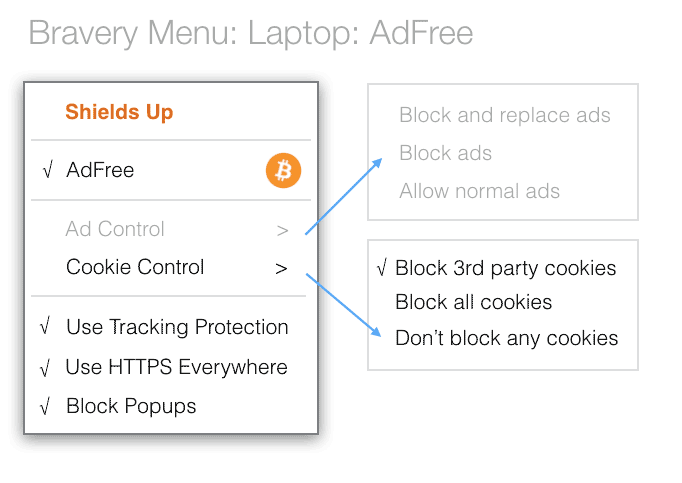
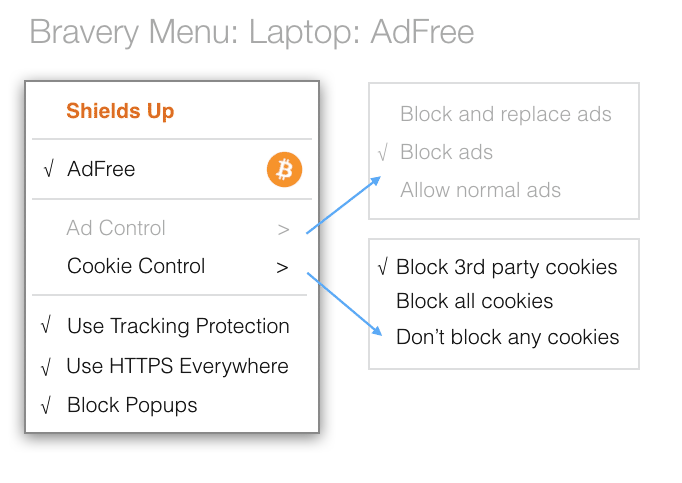
updated BP3 and another image

diff --git a/public/blogpost_3.html b/public/blogpost_3.html
@@ -127,12 +127,13 @@ The data-spy and data-target are part of the built-in Bootstrap scrollspy functi
 
     <!--=== Content Part ===-->
     <!-- Begin Content -->
-    <div class="page container content-md">
+   <div class="container content-md">
         <div class="row">
             <div class="col-sm-5 sm-margin-bottom-20">
                 <BR><img class="img-responsive" src="assets/img/team/brendan_couch.jpg" alt="">
             <HR>
-              <div class="col-sm-7 news">
+
+             <div class="col-sm-7 news">
                     <ul class="list-inline posted-info">
                         <a href="blogpost_3.html"><li><strong>March 31, 2016</strong></li>
                         <li>Brave's Payment Spec Out for Developer Input</li>
@@ -173,30 +174,42 @@ The data-spy and data-target are part of the built-in Bootstrap scrollspy functi
 
 <p>Today we are discussing the <strong><em>Brave Ledger</em></strong>, a Bitcoin-based micropayments system for users and publishers. As part of our open source approach, we are sharing the <a href="https://github.com/brave/ledger/tree/master/documentation/Ledger-Principles.md">specification</a> with developers for comment and discussion. The code is currently being written, and we expect to revise the code based on feedback. At present, we are planning on having everything running (and released as open source) in our 1.0 Development release later in May.</p>
 
-<p>Let's start with the basics. By default, the Brave Browser operates in either <em>ad-free</em> or <em>ad-replacement</em> mode. (As discussed in <a href="https://brave.com/blogpost_2.html">an earlier post</a>, Brave users may also elect only to block ads and trackers if they wish; or to disable all blocking when testing; but default settings matter at scale, because most users don’t change them.) If, with default settings, the browsing experience is currently ad-free, then third-party advertisements are not displayed by the Brave Browser; otherwise, in ad-replacement mode, the Brave Browser replaces candidate third-party advertisements with faster, safer ads that load <em.after</em> the main publisher content instead of <em>before</em> it. And we place fewer ads than we block in this mode.</p>
+<p>Let's start with the basics. The Brave Browser operates in either <em>ad-replacement</em> or <em>ad-free</em>mode. <BR>
+    
+    <p><img class="img-responsive" src="assets/img/contents/Brave_laptopmenu_adreplace.png" alt="" width="460px"></p>
+    
+    <p><img class="img-responsive" src="assets/img/contents/Brave_laptopmenu_adfree.png" alt="" width="460px"></p>
+    
+    (As discussed in <a href="https://brave.com/blogpost_2.html">an earlier post</a>, Brave users may also elect only to block ads and trackers if they wish; or to disable all blocking when testing; but default settings matter at scale, because most users don’t change them.) If the browsing experience is ad-free, then third-party advertisements are not displayed by the Brave Browser; otherwise, in ad-replacement mode, the Brave Browser replaces candidate third-party advertisements with faster, safer ads that load <em.after</em> the main publisher content instead of <em>before</em> it. And we place fewer ads than we block in this mode.</p>
 
 <p>Each mode has a different economic model and some bells and whistles:
 <ul>
-<li>For ad-free mode, you pay a monthly fee in Bitcoin (BTC). Once the BTC transfer occurs, the Brave Browser transmits an anonymous-but-accountable summary of your top 10 sites by weighted average (e.g., if you went to "wsj.com" twice as much as "espn.com", then the weight for the first site is twice as much as the second site). Each day, the Brave Ledger tallies up the payments and sites viewed and "crunches the numbers". The payments sum (less a nominal processing fee, say 5%) is then divided by the sum of weights in order to determine the payment ratio, and then the payment to each publisher is calculated by multiplying the ratio by the weight. By way of example, if the total revenue from ad-free users was 1000.00BTC, then Brave Software would receive 50.00BTC, a site receiving 10% of the total views would receive 95.00BTC, a site receiving 5% of the total views would receive 47.50BTC, a site receiving 1% of the total views would receive 9.50BTC, and so on.</li>
+<li>For ad-free mode, you pay a monthly fee in Bitcoin (BTC). Once the BTC transfer occurs, the Brave Browser transmits an anonymous-but-accountable summary of your top 10 sites by weighted average (e.g., if you went to "wsj.com" twice as much as "espn.com", then the weight for the first site is twice as much as the second site). Each day, the Brave Ledger tallies up the payments and sites viewed and "crunches the numbers". The payments sum (less a nominal processing fee, say 5%) is then divided by the sum of weights in order to determine the payment ratio, and then the payment to each publisher is calculated by multiplying the ratio by the weight. By way of example, if the total revenue from ad-free users was 1000.00BTC, then Brave Software would receive 50.00BTC, a site receiving 10% of the total views would receive 95.00BTC, a site receiving 5% of the total views would receive 47.50BTC, a site receiving 1% of the total views would receive 9.50BTC, and so on.</li><BR>
 
-<li>The Brave Browser will have a preferences panel that lets you decide which sites should be supported. You can even fiddle with the weights if you wish. For example, you might prefer to pay your top 20 sites equally, or you might prefer to exclude a particular site or two, and so on. (We’re still thinking about the most intuitive ways to let you control this, so the design details aren’t yet decided.)</li>
+<li>The Brave Browser will have a preferences panel that lets you decide which sites should be supported. You can even fiddle with the weights if you wish. For example, you might prefer to pay your top 10 sites equally, or you might prefer to exclude a particular site or two, and so on. (We’re still thinking about the most intuitive ways to let you control this, so the design details aren’t yet decided.)</li>
+    
+                    <p><a href="assets/img/contents/Brave_topsites_ledger.png" target="_blank"> <img class="img-responsive" src="assets/img/contents/Brave_topsites_ledger.png" alt=""></a></p>
 
-<li>For ad-replacement mode, once an ad campaign is reconciled and our advertising partners pay us, the total views from the ad-replacement users are aggregated into a weighted list for publishers. From the total payment, our ad-matching partner takes a share (15%), we take our share (15%), we reserve the user revenue share of the total payment (15%) for ad-replacement users, and the remaining amount is allocated to the publishers (e.g., 55%). The payment to each publisher is then calculated using the weighted-ratio method. In order to enhance privacy, the payment to each ad-replacement user is calculated independently of the actual ad impressions served to that user – Brave Software does not keep track of which users were served which impressions.</li>
+<li>For ad-replacement mode, once an ad campaign is reconciled and our advertising partners pay us, the total views from the ad-replacement users are aggregated into a weighted list for publishers. From the total payment, our ad-matching partner takes a share (15%), we take our share (15%), we reserve the user revenue share of the total payment (15%) for ad-replacement users, and the remaining amount is allocated to the publishers (e.g., 55%). The payment to each publisher is then calculated using the weighted-ratio method. In order to enhance privacy, the payment to each ad-replacement user is calculated independently of the actual ad impressions served to that user – Brave Software does not keep track of which users were served which impressions.</li><BR>
 
-<li>So, what happens when you're in ad-replacement mode? The Brave Ledger makes a transfer of the user revenue share to your Brave wallet! You have two choices: you can "donate" the funds to your favorite sites (this is the automated default); or you can transfer the funds to another Bitcoin wallet and spend them yourself. However, in order to take money out of the system, <a href="https://en.wikipedia.org/wiki/Money_laundering#Enforcement">Anti-money laundering</a> (AML) and <a href="https://en.wikipedia.org/wiki/Know_your_customer">Know your customer</a> (KYC) regulations require that Brave Software verifies your identity. If you choose to verify your identity, then you'll need to demonstrate control of a phone number and an email address. Even so, there will be no way for Brave Software to correlate your browsing history with payments to your wallet.</li>
+<li>So, what happens when you're in ad-replacement mode? The Brave Ledger makes a transfer of the user revenue share to your Brave wallet! You have two choices: you can "donate" the funds to your favorite sites (this is the automated default); or you can transfer the funds to another Bitcoin wallet and spend them yourself. However, in order to take money out of the system, <a href="https://en.wikipedia.org/wiki/Money_laundering#Enforcement">Anti-money laundering</a> (AML) and <a href="https://en.wikipedia.org/wiki/Know_your_customer">Know your customer</a> (KYC) regulations require that Brave Software verifies your identity. If you choose to verify your identity, then you'll need to demonstrate control of a phone number and an email address. Even so, there will be no way for Brave Software to correlate your browsing history with payments to your wallet.</li><BR>
 
 <li>Publishers (the sites you visit) will also have to verify their wallets to get paid, and the difficulty of validation will – owing to AML and KYC regulations – be more stringent, but proportional to the size of the publisher. One of the nice features of the ad-free model is that accounting is entirely transparent – everyone (users and publishers) can examine the BTC blockchain and see the transfers going to and from the Brave Software escrow accounts. (There are many wonderful advantages to using Bitcoin for the Brave Ledger, but that’s for a future blog post… we promise!) Note also that because most users don’t change defaults, most users will default-pay their top sites, and so the aggregate share to publishers through the system is 70% of ad revenue.</li>
 </ul>
 </p>
 
 <p>Although we talk about being in either ad-free or ad-replacement mode, that's a bit of a simplification: the preferences panel will also let you designate certain sites as being ad-free and everything else as ad-replacement. Indeed as noted above and in that <a href="https://brave.com/blogpost_2.html">previous post</a>, you can be “ad-free for free” – while we think that content should be paid for, we also realize that not everyone shares this view (although we do think that our view is the majority opinion).</p>
+                
+<p><a href="assets/img/contents/Brave_privacy_settingspanel.png" target="_blank"> <img class="img-responsive" src="assets/img/contents/Brave_privacy_settingspanel.png" alt="" width="460px"></a></p>
 
 <p>At this point, you're probably wondering how the anonymous-but-accountable part actually works. You'll have to read the <a href="https://github.com/brave/ledger/tree/master/documentation/Ledger-Principles.md">specification</a> for all the details! But here's the thumbnail: the Brave Ledger uses <a href="https://anonize.org/assets/technology.html">Anonize</a>, which enables the Brave Browser and Ledger to agree on authentic user behavior without linking that behavior to users, browsers, or wallets, through the "magic" of <a href="https://en.wikipedia.org/wiki/Zero-knowledge_proof">Zero Knowledge Proofs</a>!</p>
+
 
                 </div>
             </div>
         </div>
     </div>
+
     <!-- End About Section -->
 
 

diff --git a/public/templates/blogpost_3.html b/public/templates/blogpost_3.html
@@ -6,12 +6,13 @@
 
     <!--=== Content Part ===-->
     <!-- Begin Content -->
-    <div class="page container content-md">
+   <div class="container content-md">
         <div class="row">
             <div class="col-sm-5 sm-margin-bottom-20">
                 <BR><img class="img-responsive" src="assets/img/team/brendan_couch.jpg" alt="">
             <HR>
-              <div class="col-sm-7 news">
+
+             <div class="col-sm-7 news">
                     <ul class="list-inline posted-info">
                         <a href="blogpost_3.html"><li><strong>March 31, 2016</strong></li>
                         <li>Brave's Payment Spec Out for Developer Input</li>
@@ -52,25 +53,36 @@
 
 <p>Today we are discussing the <strong><em>Brave Ledger</em></strong>, a Bitcoin-based micropayments system for users and publishers. As part of our open source approach, we are sharing the <a href="https://github.com/brave/ledger/tree/master/documentation/Ledger-Principles.md">specification</a> with developers for comment and discussion. The code is currently being written, and we expect to revise the code based on feedback. At present, we are planning on having everything running (and released as open source) in our 1.0 Development release later in May.</p>
 
-<p>Let's start with the basics. By default, the Brave Browser operates in either <em>ad-free</em> or <em>ad-replacement</em> mode. (As discussed in <a href="https://brave.com/blogpost_2.html">an earlier post</a>, Brave users may also elect only to block ads and trackers if they wish; or to disable all blocking when testing; but default settings matter at scale, because most users don’t change them.) If, with default settings, the browsing experience is currently ad-free, then third-party advertisements are not displayed by the Brave Browser; otherwise, in ad-replacement mode, the Brave Browser replaces candidate third-party advertisements with faster, safer ads that load <em>after</em> the main publisher content instead of <em>before</em> it. And we place fewer ads than we block in this mode.</p>
+<p>Let's start with the basics. The Brave Browser operates in either <em>ad-replacement</em> or <em>ad-free</em>mode. <BR>
+    
+    <p><img class="img-responsive" src="assets/img/contents/Brave_laptopmenu_adreplace.png" alt="" width="460px"></p>
+    
+    <p><img class="img-responsive" src="assets/img/contents/Brave_laptopmenu_adfree.png" alt="" width="460px"></p>
+    
+    (As discussed in <a href="https://brave.com/blogpost_2.html">an earlier post</a>, Brave users may also elect only to block ads and trackers if they wish; or to disable all blocking when testing; but default settings matter at scale, because most users don’t change them.) If the browsing experience is ad-free, then third-party advertisements are not displayed by the Brave Browser; otherwise, in ad-replacement mode, the Brave Browser replaces candidate third-party advertisements with faster, safer ads that load <em.after</em> the main publisher content instead of <em>before</em> it. And we place fewer ads than we block in this mode.</p>
 
 <p>Each mode has a different economic model and some bells and whistles:
 <ul>
-<li>For ad-free mode, you pay a monthly fee in Bitcoin (BTC). Once the BTC transfer occurs, the Brave Browser transmits an anonymous-but-accountable summary of your top 10 sites by weighted average (e.g., if you went to "wsj.com" twice as much as "espn.com", then the weight for the first site is twice as much as the second site). Each day, the Brave Ledger tallies up the payments and sites viewed and "crunches the numbers". The payments sum (less a nominal processing fee, say 5%) is then divided by the sum of weights in order to determine the payment ratio, and then the payment to each publisher is calculated by multiplying the ratio by the weight. By way of example, if the total revenue from ad-free users was 1000.00BTC, then Brave Software would receive 50.00BTC, a site receiving 10% of the total views would receive 95.00BTC, a site receiving 5% of the total views would receive 47.50BTC, a site receiving 1% of the total views would receive 9.50BTC, and so on.</li>
+<li>For ad-free mode, you pay a monthly fee in Bitcoin (BTC). Once the BTC transfer occurs, the Brave Browser transmits an anonymous-but-accountable summary of your top 10 sites by weighted average (e.g., if you went to "wsj.com" twice as much as "espn.com", then the weight for the first site is twice as much as the second site). Each day, the Brave Ledger tallies up the payments and sites viewed and "crunches the numbers". The payments sum (less a nominal processing fee, say 5%) is then divided by the sum of weights in order to determine the payment ratio, and then the payment to each publisher is calculated by multiplying the ratio by the weight. By way of example, if the total revenue from ad-free users was 1000.00BTC, then Brave Software would receive 50.00BTC, a site receiving 10% of the total views would receive 95.00BTC, a site receiving 5% of the total views would receive 47.50BTC, a site receiving 1% of the total views would receive 9.50BTC, and so on.</li><BR>
 
-<li>The Brave Browser will have a preferences panel that lets you decide which sites should be supported. You can even fiddle with the weights if you wish. For example, you might prefer to pay your top 20 sites equally, or you might prefer to exclude a particular site or two, and so on. (We’re still thinking about the most intuitive ways to let you control this, so the design details aren’t yet decided.)</li>
+<li>The Brave Browser will have a preferences panel that lets you decide which sites should be supported. You can even fiddle with the weights if you wish. For example, you might prefer to pay your top 10 sites equally, or you might prefer to exclude a particular site or two, and so on. (We’re still thinking about the most intuitive ways to let you control this, so the design details aren’t yet decided.)</li>
+    
+                    <p><a href="assets/img/contents/Brave_topsites_ledger.png" target="_blank"> <img class="img-responsive" src="assets/img/contents/Brave_topsites_ledger.png" alt=""></a></p>
 
-<li>For ad-replacement mode, once an ad campaign is reconciled and our advertising partners pay us, the total views from the ad-replacement users are aggregated into a weighted list for publishers. From the total payment, our ad-matching partner takes a share (15%), we take our share (15%), we reserve the user revenue share of the total payment (15%) for ad-replacement users, and the remaining amount is allocated to the publishers (e.g., 55%). The payment to each publisher is then calculated using the weighted-ratio method. In order to enhance privacy, the payment to each ad-replacement user is calculated independently of the actual ad impressions served to that user – Brave Software does not keep track of which users were served which impressions.</li>
+<li>For ad-replacement mode, once an ad campaign is reconciled and our advertising partners pay us, the total views from the ad-replacement users are aggregated into a weighted list for publishers. From the total payment, our ad-matching partner takes a share (15%), we take our share (15%), we reserve the user revenue share of the total payment (15%) for ad-replacement users, and the remaining amount is allocated to the publishers (e.g., 55%). The payment to each publisher is then calculated using the weighted-ratio method. In order to enhance privacy, the payment to each ad-replacement user is calculated independently of the actual ad impressions served to that user – Brave Software does not keep track of which users were served which impressions.</li><BR>
 
-<li>So, what happens when you're in ad-replacement mode? The Brave Ledger makes a transfer of the user revenue share to your Brave wallet! You have two choices: you can "donate" the funds to your favorite sites (this is the automated default); or you can transfer the funds to another Bitcoin wallet and spend them yourself. However, in order to take money out of the system, <a href="https://en.wikipedia.org/wiki/Money_laundering#Enforcement">Anti-money laundering</a> (AML) and <a href="https://en.wikipedia.org/wiki/Know_your_customer">Know your customer</a> (KYC) regulations require that Brave Software verifies your identity. If you choose to verify your identity, then you'll need to demonstrate control of a phone number and an email address. Even so, there will be no way for Brave Software to correlate your browsing history with payments to your wallet.</li>
+<li>So, what happens when you're in ad-replacement mode? The Brave Ledger makes a transfer of the user revenue share to your Brave wallet! You have two choices: you can "donate" the funds to your favorite sites (this is the automated default); or you can transfer the funds to another Bitcoin wallet and spend them yourself. However, in order to take money out of the system, <a href="https://en.wikipedia.org/wiki/Money_laundering#Enforcement">Anti-money laundering</a> (AML) and <a href="https://en.wikipedia.org/wiki/Know_your_customer">Know your customer</a> (KYC) regulations require that Brave Software verifies your identity. If you choose to verify your identity, then you'll need to demonstrate control of a phone number and an email address. Even so, there will be no way for Brave Software to correlate your browsing history with payments to your wallet.</li><BR>
 
 <li>Publishers (the sites you visit) will also have to verify their wallets to get paid, and the difficulty of validation will – owing to AML and KYC regulations – be more stringent, but proportional to the size of the publisher. One of the nice features of the ad-free model is that accounting is entirely transparent – everyone (users and publishers) can examine the BTC blockchain and see the transfers going to and from the Brave Software escrow accounts. (There are many wonderful advantages to using Bitcoin for the Brave Ledger, but that’s for a future blog post… we promise!) Note also that because most users don’t change defaults, most users will default-pay their top sites, and so the aggregate share to publishers through the system is 70% of ad revenue.</li>
 </ul>
 </p>
 
 <p>Although we talk about being in either ad-free or ad-replacement mode, that's a bit of a simplification: the preferences panel will also let you designate certain sites as being ad-free and everything else as ad-replacement. Indeed as noted above and in that <a href="https://brave.com/blogpost_2.html">previous post</a>, you can be “ad-free for free” – while we think that content should be paid for, we also realize that not everyone shares this view (although we do think that our view is the majority opinion).</p>
+                
+<p><a href="assets/img/contents/Brave_privacy_settingspanel.png" target="_blank"> <img class="img-responsive" src="assets/img/contents/Brave_privacy_settingspanel.png" alt="" width="460px"></a></p>
 
 <p>At this point, you're probably wondering how the anonymous-but-accountable part actually works. You'll have to read the <a href="https://github.com/brave/ledger/tree/master/documentation/Ledger-Principles.md">specification</a> for all the details! But here's the thumbnail: the Brave Ledger uses <a href="https://anonize.org/assets/technology.html">Anonize</a>, which enables the Brave Browser and Ledger to agree on authentic user behavior without linking that behavior to users, browsers, or wallets, through the "magic" of <a href="https://en.wikipedia.org/wiki/Zero-knowledge_proof">Zero Knowledge Proofs</a>!</p>
+
 
                 </div>
             </div>
